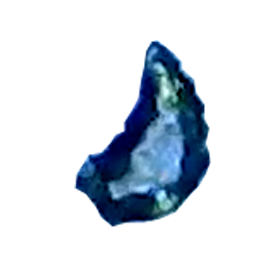
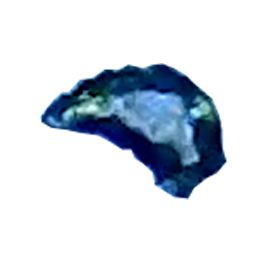
Reflect PUNTITA cursor across diagonal

Changed region(s): [[0.146, 0.146, 0.8175, 0.8175]]

diff --git a/styles.css b/styles.css
@@ -53,7 +53,7 @@ h1{color:#292216;-webkit-text-fill-color:#292216;-webkit-text-stroke:1.5px #e1dc
 #home.home-transition-in{opacity:0;pointer-events:none;transition:opacity .9s ease;animation:none}
 #home.home-transition-in.home-transition-visible{opacity:1;pointer-events:auto}
 :root{cursor:url('assets/ui/cursor-click-small.png') 8 14,auto}
-button{cursor:url('assets/ui/puntita-cursor.png') 33 9,pointer}
+button{cursor:url('assets/ui/puntita-cursor.png') 9 15,pointer}
 button:active{cursor:url('assets/ui/cursor-click-small.png') 8 14,pointer}
 .choice-art .ui-icon{display:block;width:78%;height:82%;object-fit:contain}
 .art-lens{display:flex;align-items:center;justify-content:center;gap:0}

diff --git a/index.html b/index.html
@@ -5,7 +5,7 @@
   <meta name="viewport" content="width=device-width,initial-scale=1,viewport-fit=cover">
   <meta name="theme-color" content="#aaa18a">
   <title>Compostaje fílmico y formas de encuentro</title>
-  <link rel="stylesheet" href="styles.css?v=13">
+  <link rel="stylesheet" href="styles.css?v=14">
 </head>
 <body>
   <main id="app" class="app">
